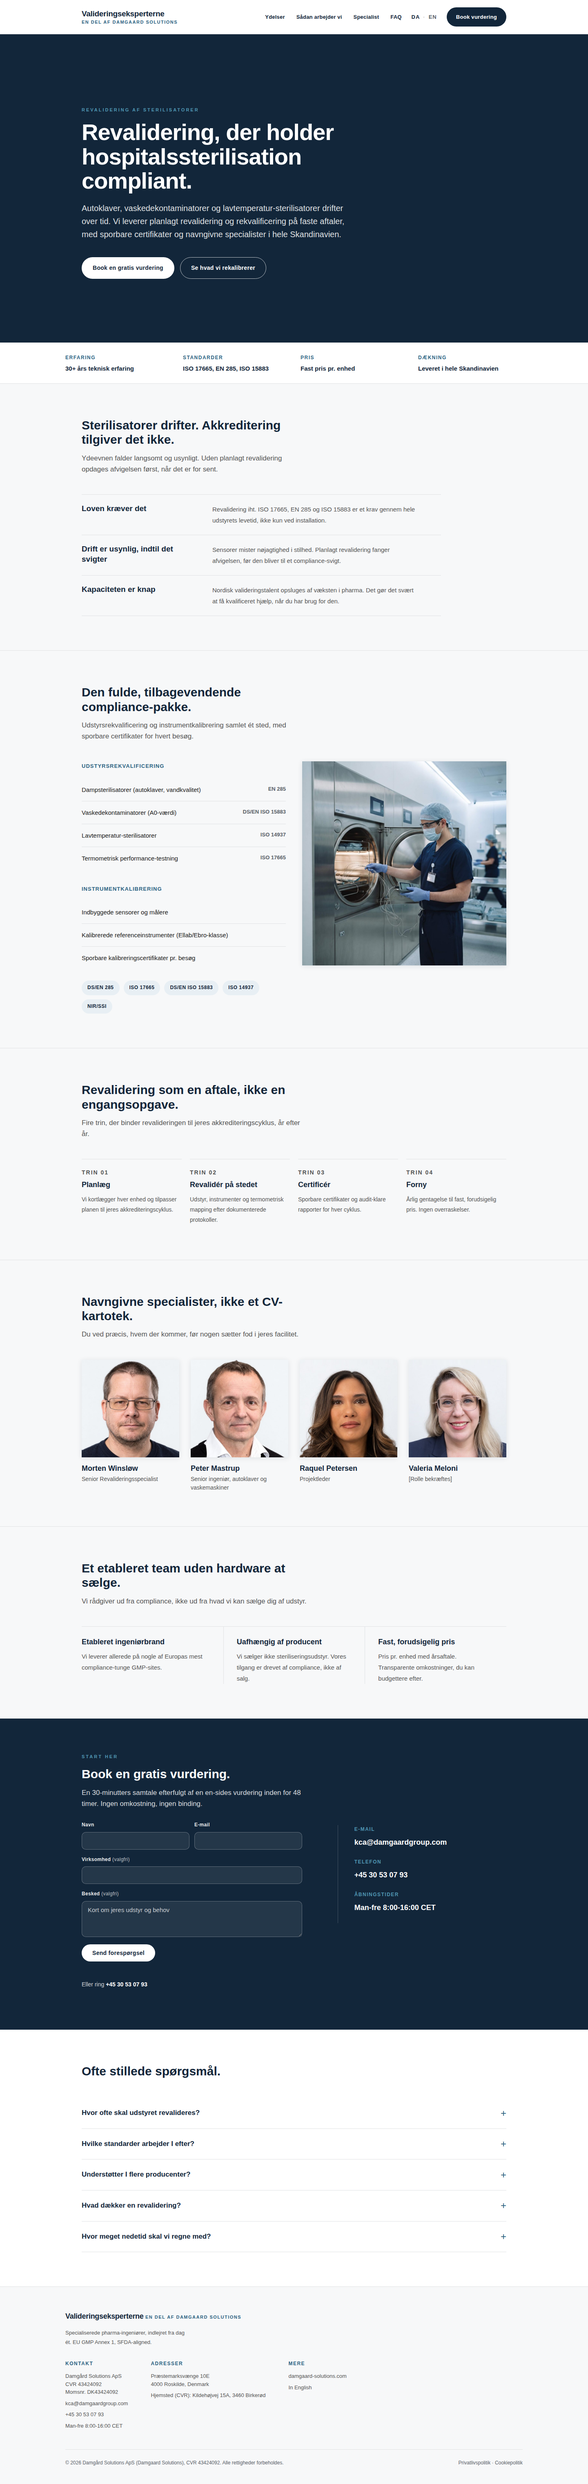
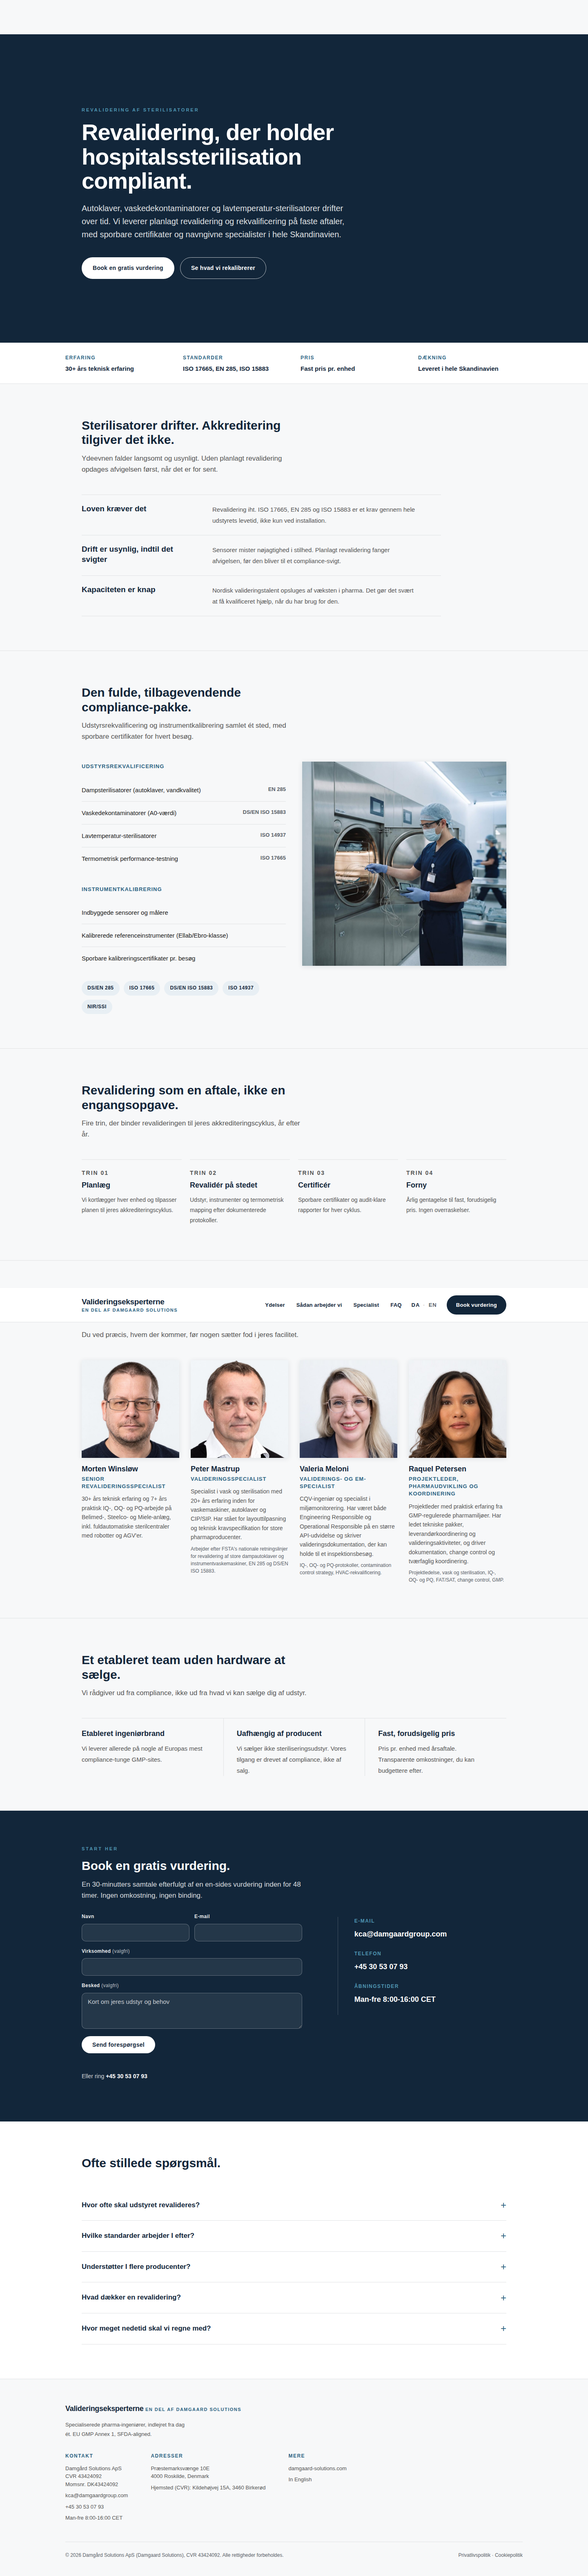
valideringseksperterne.dk: roster uses live titles and bios; live capture shows body copy newer than the base, transplant route required
Claude-Session: https://claude.ai/code/session_0154HTtzSL4JUpKVBFWkv17y

diff --git a/audits/valideringseksperterne/index.html b/audits/valideringseksperterne/index.html
@@ -443,8 +443,10 @@
   /* specialist */
   .team { list-style: none; margin: 0; padding: 0; display: grid; grid-template-columns: repeat(4, 1fr); gap: 32px 28px; }
   .team-photo { width: 100%; height: auto; aspect-ratio: 1 / 1; object-fit: cover; display: block; box-shadow: var(--shadow); }
-  .team h3 { font-size: 18px; font-weight: 700; color: var(--navy); margin: 16px 0 4px; line-height: 1.3; }
-  .team .role { font-size: 14px; color: var(--text-secondary); margin: 0; line-height: 1.5; }
+  .team h3 { font-size: 18px; font-weight: 700; color: var(--navy); margin: 16px 0 4px; line-height: 1.3; overflow-wrap: anywhere; }
+  .team .role { font-size: 13px; font-weight: 700; letter-spacing: 1px; text-transform: uppercase; color: var(--steel-text); margin: 0 0 10px; line-height: 1.4; }
+  .team .bio { font-size: 14px; color: var(--text-secondary); margin: 0 0 8px; line-height: 1.6; }
+  .team .tags { font-size: 12px; color: var(--neutral-mid); margin: 0; line-height: 1.5; }
 
   /* why cards */
   .usp-grid { display: grid; grid-template-columns: repeat(3, 1fr); gap: 0; border-top: 1px solid var(--border); }
@@ -546,8 +548,8 @@
     .brand-name { font-size: 17px; }
     .lang { display: none; }
     .facts { grid-template-columns: 1fr; gap: 14px; }
-    .team { grid-template-columns: 1fr 1fr; gap: 24px 16px; }
-    .team h3 { font-size: 16px; }
+    .team { grid-template-columns: 1fr; gap: 28px; }
+    .team-photo { max-width: 220px; }
   }
 
   ::selection { background: var(--sky); color: var(--white); }
@@ -748,21 +750,28 @@
         <img class="team-photo" width="600" height="600" decoding="async" src="img/morten-winslow.jpg" alt="Morten Winsløw">
         <h3>Morten Winsløw</h3>
         <p class="role">Senior Revalideringsspecialist</p>
+        <p class="bio">30+ års teknisk erfaring og 7+ års praktisk IQ-, OQ- og PQ-arbejde på Belimed-, Steelco- og Miele-anlæg, inkl. fuldautomatiske sterilcentraler med robotter og AGV'er.</p>
       </li>
       <li>
         <img class="team-photo" width="600" height="600" decoding="async" src="img/peter-mastrup.jpg" alt="Peter Mastrup">
         <h3>Peter Mastrup</h3>
-        <p class="role">Senior ingeniør, autoklaver og vaskemaskiner</p>
-      </li>
-      <li>
-        <img class="team-photo" width="600" height="600" decoding="async" src="img/raquel-petersen.jpg" alt="Raquel Petersen">
-        <h3>Raquel Petersen</h3>
-        <p class="role">Projektleder</p>
+        <p class="role">Valideringsspecialist</p>
+        <p class="bio">Specialist i vask og sterilisation med 20+ års erfaring inden for vaskemaskiner, autoklaver og CIP/SIP. Har stået for layouttilpasning og teknisk kravspecifikation for store pharmaproducenter.</p>
+        <p class="tags">Arbejder efter FSTA's nationale retningslinjer for revalidering af store dampautoklaver og instrumentvaskemaskiner, EN 285 og DS/EN ISO 15883.</p>
       </li>
       <li>
         <img class="team-photo" width="600" height="600" decoding="async" src="img/valeria-meloni.jpg" alt="Valeria Meloni">
         <h3>Valeria Meloni</h3>
-        <p class="role">[Rolle bekræftes]</p>
+        <p class="role">Validerings- og EM-specialist</p>
+        <p class="bio">CQV-ingeniør og specialist i miljømonitorering. Har været både Engineering Responsible og Operational Responsible på en større API-udvidelse og skriver valideringsdokumentation, der kan holde til et inspektionsbesøg.</p>
+        <p class="tags">IQ-, OQ- og PQ-protokoller, contamination control strategy, HVAC-rekvalificering.</p>
+      </li>
+      <li>
+        <img class="team-photo" width="600" height="600" decoding="async" src="img/raquel-petersen.jpg" alt="Raquel Petersen">
+        <h3>Raquel Petersen</h3>
+        <p class="role">Projektleder, pharmaudvikling og koordinering</p>
+        <p class="bio">Projektleder med praktisk erfaring fra GMP-regulerede pharmamiljøer. Har ledet tekniske pakker, leverandørkoordinering og valideringsaktiviteter, og driver dokumentation, change control og tværfaglig koordinering.</p>
+        <p class="tags">Projektledelse, vask og sterilisation, IQ-, OQ- og PQ, FAT/SAT, change control, GMP.</p>
       </li>
     </ul>
   </div>

diff --git a/audits/valideringseksperterne/reports/design-audit-2026-10-06.md b/audits/valideringseksperterne/reports/design-audit-2026-10-06.md
@@ -69,12 +69,9 @@ Copy wording is unchanged except one punctuation swap in the facts strip ("ISO 1
 
 The single-specialist block (Morten Winsløw, portrait plus four bullets) is now a four-person roster: photo, name, role. Photos are 600 px JPEGs in `img/` (37 to 43 KB each) instead of inline data, and the scope photo now points at `og-image.jpg`, so `index.html` dropped from 346 KB to 37 KB. Names and surnames come from Nancy's mapping plus the Damgaard SharePoint member list (Morten Winsløv/Winsløw, Peter Mastrup, Raquel Petersen, Valeria Meloni).
 
-Open before upload, marked in the file:
-- Valeria Meloni's role shows "[Rolle bekræftes]"; no source gives it. Replace before upload.
-- Peter Mastrup's role "Senior ingeniør, autoklaver og vaskemaskiner" is a Danish rendering of his Damgaard CV (Senior Engineer, specialist autoclaves and washers). Confirm the wording.
-- Raquel Petersen's role "Projektleder" comes from the Kunderum customer guide ("jeres projektleder, Raquel"). Confirm.
-- Morten's four bullets (30+ år, Belimed/Steelco/Miele, CSSD-automation, languages) left the page with the roster layout. The 30+ år fact survives in the facts strip. Say if any bullet should return as a one-liner under his role.
-- The SharePoint list spells Morten's surname "Winsløv"; the page keeps the existing "Winsløw". Confirm which is right.
+Roles, bios and the small credential lines were then taken verbatim from Nancy's live-page capture of 6 Oct 2026 (Morten Winsløw, Senior Revalideringsspecialist; Peter Mastrup, Valideringsspecialist; Valeria Meloni, Validerings- og EM-specialist; Raquel Petersen, Projektleder, pharmaudvikling og koordinering). The live page uses the same spelling "Winsløw". One flag: Valeria's live bio opens with "CQV-ingeniør", and the Damgaard copy rules say no "CQV" in AEO copy; it is live wording, left as is for Nancy to decide.
+
+Important: the same capture shows the live page's whole body is newer than this file's base. This audit's fixes stay valid as a pattern, but they must be re-applied onto the live HTML, not shipped from this file. See the site-lab report, "Update 6 Oct 2026".
 
 Still open from the craft floor, not in the approved scope: card radius 10 px (the floor prefers 12 to 16 px for cards, though no cards remain), Montserrat served from Google (legal audit fix D), and the hero lede length.
 

diff --git a/audits/valideringseksperterne/valideringseksperterne-site-lab-2026-09-28.md b/audits/valideringseksperterne/valideringseksperterne-site-lab-2026-09-28.md
@@ -2,6 +2,12 @@
 
 Brand: Damgaard Solutions hospital revalidation (Danish). Platform: static index.html on Simply. Mode: live + repo. Fix tier: findings and a finished file for Nancy to upload. Nothing was uploaded.
 
+## Update 6 Oct 2026: the live page is newer than this file's base. Use the transplant route.
+
+Nancy's screen capture of the live page (reports/live-capture-2026-10-06-p1..p3.png) shows body copy that is newer in every section than the 18 Aug base this corrected file was built on: a light hero with the lede "Autoklaver og instrumentvaskemaskiner driver over tid. Vi revaliderer dem efter FSTA's nationale retningslinjer...", a facts row reading "FSTA · EN 285 · DS/EN ISO 15883", an FSTA quote block and three new problem columns, an Omfang section with "Det, de fleste ikke måler" (vandkvalitet og pH, Testplan 4, 5 og 6), four process steps named Planlægning / Forberedelse, Del I / Praktisk test, Del II / Rapport, Del III, a "Kun revalidering" section, four named specialists with roles and bios, six FAQ questions, and no contact form. The footer still has no CVR and the nav has no links or CTA.
+
+So: do not upload this `index.html` whole. The finished live file must be the live HTML with these pieces merged in: `head-block.html`, `contrast-patch.css` and the design fixes adapted to the live layout, the CVR footer (Draft fix A in the legal audit), and the roster photos from `img/`. That merge needs the live HTML source, which this environment cannot fetch: download `/valideringseksperterne.dk/index.html` from the Simply file manager, or save the page from the browser as HTML only, and hand it over.
+
 ## What I could and could not reach
 
 - The live page could not be fetched from this session. The cloud environment's network policy denies valideringseksperterne.dk, and web.archive.org is also blocked, so no live diff was possible. To allow it next time, add valideringseksperterne.dk to the environment's allowed domains (cloud environment menu in the session title bar, then Edit, Network access).
